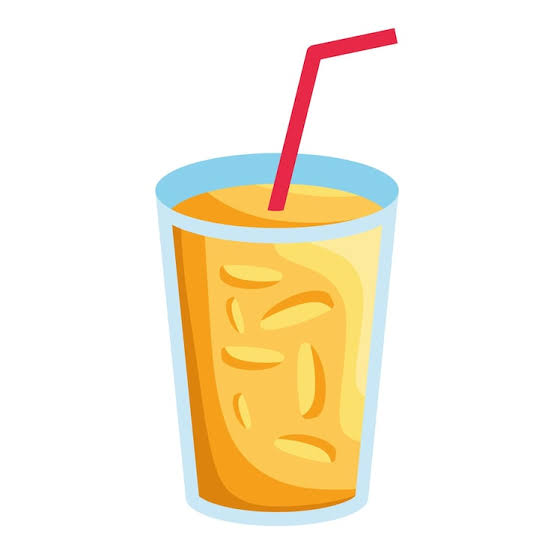
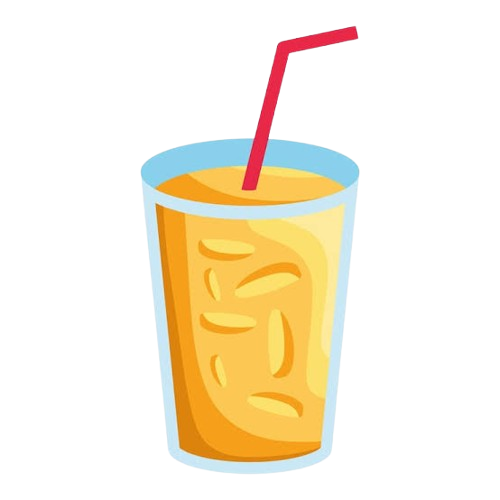
Add files via upload

diff --git a/cardapio.html b/cardapio.html
@@ -65,7 +65,7 @@
                     <span class="preco-destaque">R$ 6,00</span>
                     <button class="btn-adicionar"
                             data-nome="Pizza" data-preco="6">
-                        Adicionar
+                        Adicionar        
                     </button>
                 </div>
             </article>
@@ -131,7 +131,8 @@
             </article>
 
             <article class="card-produto">
-                <img src="imagens/suco.jpg" alt="Suco Natural" class="imagem-produto">
+                <img src="imagens/suco.jpg" alt="Suco Natural" 
+                     class="imagem-produto">
                 <div class="conteudo-card">
                     <h3>Suco Natural</h3>
                     <p>Maracujá, acerola, abacaxi ou laranja (copo 400ml).</p>

diff --git a/estilos-cardapio.css b/estilos-cardapio.css
@@ -22,6 +22,22 @@ body {
     margin: 0;
 }
 
+.info-carrinho {
+    color: white;
+    font-weight: bold;
+    background-color: #4fa00d;
+    border: 3px solid #4fa00d;
+    padding: 8px 15px;
+    border-radius: 20px;
+    cursor: pointer;
+    transition: background-color 0.3s ease;
+}
+
+.info-carrinho:hover {
+    background-color: #4fa00d;
+}
+
+
 /* --- VITRINE DE PRODUTOS --- */
 .vitrine-grid {
     display: grid;
